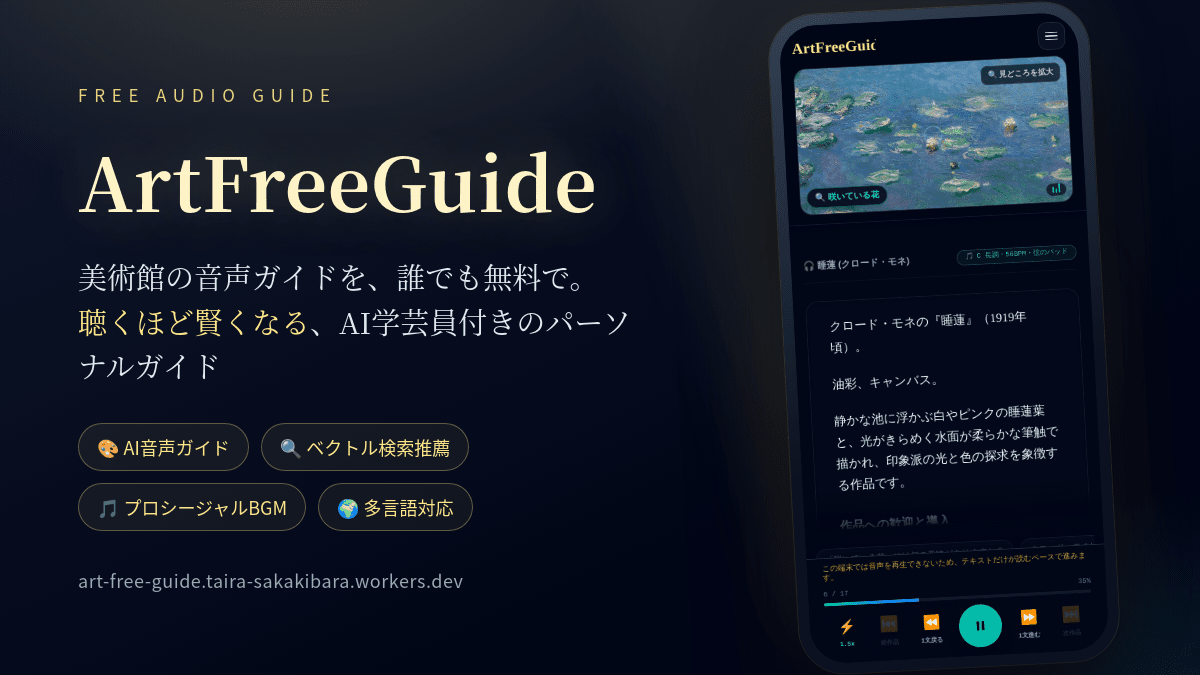
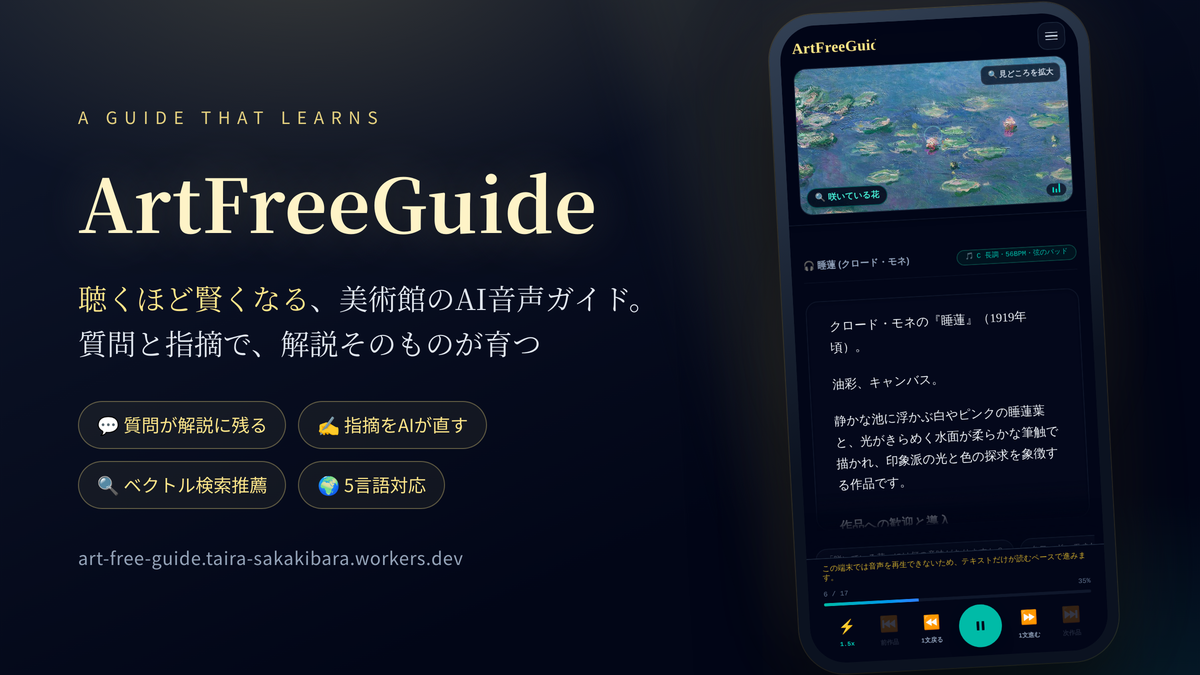
Lead with the guide that learns, not the price

diff --git a/README.md b/README.md
@@ -5,8 +5,8 @@
 <h1 align="center">ArtFreeGuide</h1>
 
 <p align="center">
-  <b>美術館の音声ガイドを、誰でも無料で。</b><br>
-  聴くほど賢くなる、AI 学芸員付きのパーソナルガイド
+  <b>聴くほど賢くなる、美術館の AI 音声ガイド。</b><br>
+  あなたの質問と指摘で、解説そのものが育っていきます
 </p>
 
 <p align="center">
@@ -21,9 +21,9 @@
   </a>
 </p>
 
-作品名を入れるだけで、AI が学芸員のように解説を書き起こし、1 文ずつ読み上げます。絵の「見どころ」は画像上でポイントされ、気になったことはその場で質問でき、聴いた作品からベクトル検索で「次の 1 枚」を提案します。
+普通の音声ガイドは、誰が何回聴こうと同じテープを繰り返します。ArtFreeGuide は違います — **聴いた人の質問と指摘が、その場で解説に入り、次の来訪者が聴くガイドになります**。聴けば聴くほど、作品の解説も、あなたへの推薦も賢くなるガイドです。
 
-有料の音声ガイド機を借りずに、手元のスマートフォンだけで、深いところまで作品を味わえる状態を目指しています。
+作品名を入れるだけで、AI が学芸員のように解説を書き起こし、1 文ずつ読み上げます。絵の「見どころ」は画像上でポイントされ、気になったことはその場で質問でき、聴いた作品からベクトル検索で「次の 1 枚」を提案します。専用のガイド機を借りず、手元のスマートフォンだけで完結します。
 
 - サービス URL: https://art-free-guide.taira-sakakibara.workers.dev
 - リポジトリ: https://github.com/t-sakaki/ArtFreeGuide
@@ -31,6 +31,23 @@
 <p align="center">
   <img src="docs/images/ogp.png" alt="ArtFreeGuide の共有カード" width="600">
 </p>
+
+## 聴くほど賢くなる、とは
+
+「賢くなる」はキャッチフレーズではなく、実際に保存されて次の人に届く仕組みです。ガイドは四つの経路で育ちます。
+
+| 聴く人の行動 | ガイドに起きること | 残る場所 |
+| --- | --- | --- |
+| 質問する | AI の回答がその場で読み上げられ、解説本文に追記される | D1 の解説アーカイブ（`/api/guide/augment`） |
+| 裏話を押す | さらに深いエピソードが生成され、次の来訪者にも届く | 同上 |
+| 気になる点を送る | AI キュレーターが指摘を読み、**何をどう直したかをその場で返答**して修正案を作る（承認後に全員へ反映） | `guide_corrections` の承認キュー |
+| 聴き進める | 好みベクトルが更新され、「あなたへのおすすめ」があなたに寄っていく | `user_profiles.preference_embedding_nv`（pgvector） |
+
+とくに「気になる点」は、送って終わりのご意見箱ではありません。長すぎる / 難しい / 事実が違う / 退屈 / 読み上げが不自然 を 1 タップで選ぶと、AI がその理由に沿って解説を作り直し、何を直したかを一文で答えます。
+
+カタログにない作品も、誰かが一度聴けば埋め込みが作られ、以後は推薦の候補になります。利用されるほど、ガイドの収蔵自体が広がります。
+
+なお、利用は無料です（インストールもログインも不要）。ただし、このプロダクトの価値は価格ではなく、上の四つのループにあります。
 
 ## すぐ聴けるツアー
 
@@ -118,14 +135,15 @@ Supabase Auth のマジックリンクでログインすると、匿名で溜め
 | --- | --- |
 | AI 音声ガイド | 作品名（＋作家名）から解説を生成し、Web Speech API で 1 文ずつ読み上げ。速度調整、文単位の巻き戻し／送りに対応 |
 | 見どころポインター | 作品画像の上に見どころを配置。普段はほぼ透明で、いま語っている 1 点だけがゆっくり明滅し、絵の鑑賞を邪魔しない |
-| 質問 | サジェスト質問＋自由入力（音声入力も可）。回答はガイド本文に追記され、そのまま読み上げられる |
-| 裏話・エピソード | ボタン 1 つで、その作品のさらに深い話を追加生成 |
+| 質問 | サジェスト質問＋自由入力（音声入力も可）。回答はガイド本文に追記され、保存されて次の来訪者にも届く |
+| 裏話・エピソード | ボタン 1 つでさらに深い話を追加生成し、それも解説に蓄積される |
 | ベクトル検索レコメンド | 作品埋め込みと「好みベクトル」による近傍検索で次の作品を提案（後述） |
 | テーマ別ツアー | 「光と影のドラマ」「情熱の色彩」「ルネサンスの理想美」など、カタログから組んだツアー |
 | 視聴履歴 | 聴いた作品を保存し、続きから再生。好みベクトルの材料にもなる |
 | 共有リンク | 作品ごとの OGP（タイトル・説明・サムネイル）付きで、SNS やチャットにカード表示 |
 | 多言語 | 日本語 / 英語 / フランス語 / スペイン語 / 中国語の UI・解説・読み上げ |
 | 読み間違いの報告 → 承認 → 反映 | 読み上げの誤りを利用者が報告し、管理者が承認すると以後の TTS に反映される |
+| AI キュレーターへの指摘 | 理由を 1 タップで選ぶと、AI がその場で何を直したかを返答し、その理由に沿って解説を作り直す |
 | 解説の修正提案 → 承認 → 反映 | 内容の誤りを報告すると LLM が修正案を作り、管理者が差分を見て承認すると保存済み解説が置き換わる |
 | ログイン（任意） | 匿名のまま使えて、Supabase Auth のマジックリンクでログインすると匿名の履歴・好みをアカウントに引き継ぐ |
 
